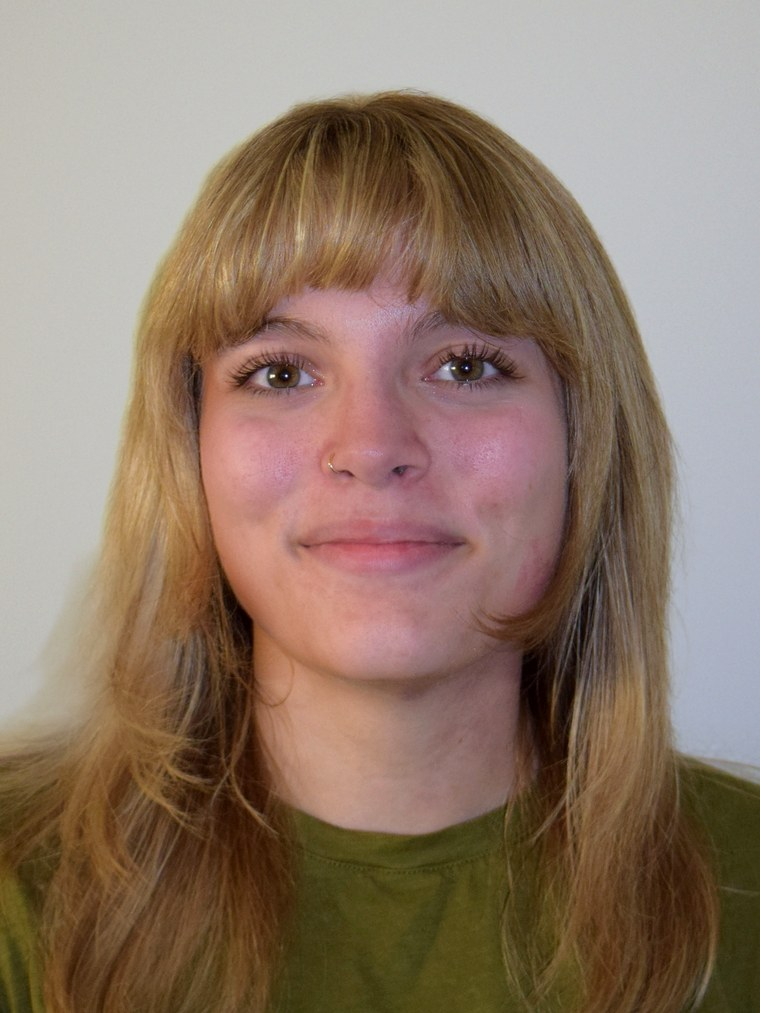
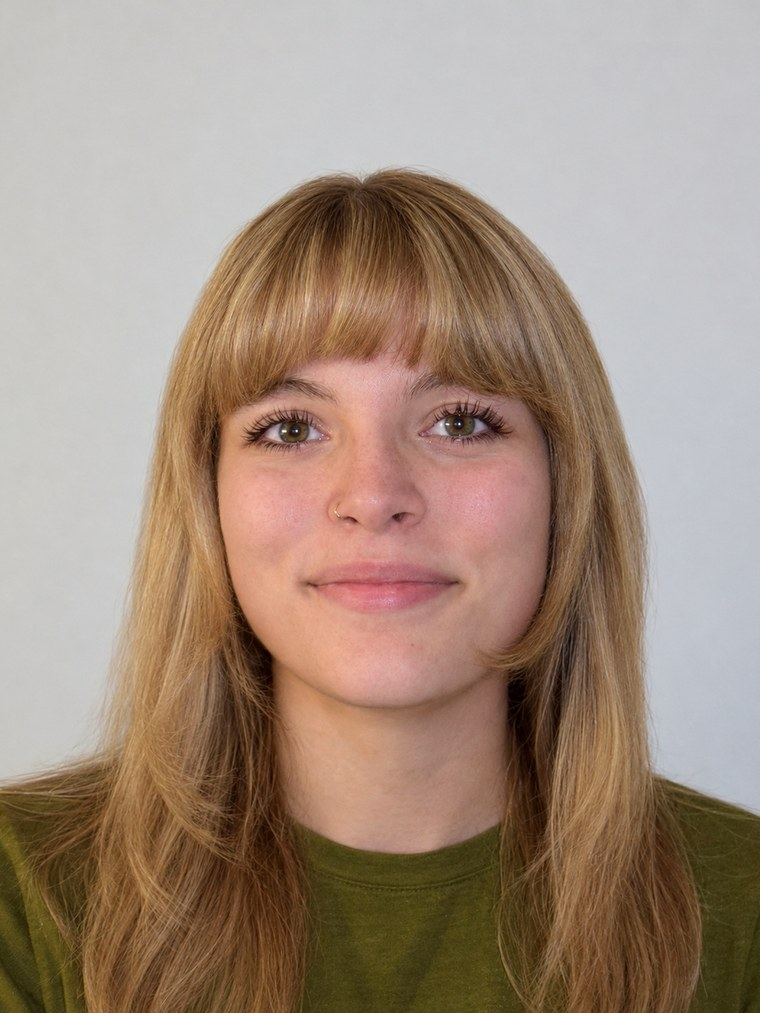
Fill out About carousel with 11 real photos, update headshot
- Replace the placeholder carousel images with 11 real photos, ordered
  with a narrative arc: solo shots up front, then creative/CS work
  (RepQuest, collage art), concerts and friends, family, and a dog
  photo as the closer
- Fix EXIF-orientation and crop issues found while processing (several
  source photos were rotated sideways, and a couple of crops didn't
  show the right content) before finalizing
- Swap in a new hero headshot

diff --git a/index.html b/index.html
@@ -22,7 +22,7 @@
 <link rel="preconnect" href="https://fonts.googleapis.com">
 <link rel="preconnect" href="https://fonts.gstatic.com" crossorigin>
 <link href="https://fonts.googleapis.com/css2?family=Newsreader:opsz,wght@6..72,300;6..72,400;6..72,500&family=Jost:wght@400;500&family=Work+Sans:wght@400;500&display=swap" rel="stylesheet">
-<link rel="stylesheet" href="style.css?v=92">
+<link rel="stylesheet" href="style.css?v=98">
 </head>
 <body>
 
@@ -214,10 +214,16 @@
       <div class="about-carousel">
         <div class="about-carousel-track">
           <figure class="about-carousel-slide"><img src="img/about/photo-1.jpg" alt="Alexandra laughing with her hand over her face"></figure>
-          <figure class="about-carousel-slide"><img src="img/about/photo-2.jpg" alt="Alexandra laughing with a friend during a photoshoot"></figure>
-          <figure class="about-carousel-slide"><img src="img/about/placeholder-3.jpg" alt="Placeholder photo 3"></figure>
-          <figure class="about-carousel-slide"><img src="img/about/placeholder-4.jpg" alt="Placeholder photo 4"></figure>
-          <figure class="about-carousel-slide"><img src="img/about/placeholder-5.jpg" alt="Placeholder photo 5"></figure>
+          <figure class="about-carousel-slide"><img src="img/about/photo-4.jpg" alt="Alexandra sitting with her camera overlooking a city skyline"></figure>
+          <figure class="about-carousel-slide"><img src="img/about/photo-5.jpg" alt="Looking down at a KAWS figure on display at a museum"></figure>
+          <figure class="about-carousel-slide"><img src="img/about/photo-2.jpg" alt="Alexandra working on the RepQuest achievements page with teammates"></figure>
+          <figure class="about-carousel-slide"><img src="img/about/photo-3.jpg" alt="A collage art piece in progress on a desk"></figure>
+          <figure class="about-carousel-slide"><img src="img/about/photo-6.jpg" alt="Alexandra hugging a friend at a concert"></figure>
+          <figure class="about-carousel-slide"><img src="img/about/photo-7.jpg" alt="Alexandra and a friend at an amphitheater concert at night"></figure>
+          <figure class="about-carousel-slide"><img src="img/about/photo-8.jpg" alt="Alexandra laughing with a friend during a photoshoot"></figure>
+          <figure class="about-carousel-slide"><img src="img/about/photo-9.jpg" alt="Alexandra and her mom at the beach at sunset"></figure>
+          <figure class="about-carousel-slide"><img src="img/about/photo-10.jpg" alt="Family photographed in a convex mirror outside on campus"></figure>
+          <figure class="about-carousel-slide"><img src="img/about/photo-11.jpg" alt="Alexandra with her dog"></figure>
         </div>
         <button type="button" class="carousel-btn carousel-prev" aria-label="Previous photo">←</button>
         <button type="button" class="carousel-btn carousel-next" aria-label="Next photo">→</button>
@@ -258,6 +264,6 @@
   <p>Alexandra Palermo © 2026</p>
 </footer>
 
-<script src="script.js?v=92"></script>
+<script src="script.js?v=98"></script>
 </body>
 </html>

diff --git a/potion-creation-station.html b/potion-creation-station.html
@@ -22,7 +22,7 @@
 <link rel="preconnect" href="https://fonts.googleapis.com">
 <link rel="preconnect" href="https://fonts.gstatic.com" crossorigin>
 <link href="https://fonts.googleapis.com/css2?family=Newsreader:opsz,wght@6..72,300;6..72,400;6..72,500&family=Jost:wght@400;500&family=Work+Sans:wght@400;500&display=swap" rel="stylesheet">
-<link rel="stylesheet" href="style.css?v=92">
+<link rel="stylesheet" href="style.css?v=98">
 </head>
 <body>
 
@@ -141,6 +141,6 @@ This Potion has been sent into the depths of the archive, never to be found agai
   <p>Alexandra Palermo © 2026</p>
 </footer>
 
-<script src="script.js?v=92"></script>
+<script src="script.js?v=98"></script>
 </body>
 </html>

diff --git a/pride-rock.html b/pride-rock.html
@@ -22,7 +22,7 @@
 <link rel="preconnect" href="https://fonts.googleapis.com">
 <link rel="preconnect" href="https://fonts.gstatic.com" crossorigin>
 <link href="https://fonts.googleapis.com/css2?family=Newsreader:opsz,wght@6..72,300;6..72,400;6..72,500&family=Jost:wght@400;500&family=Work+Sans:wght@400;500&display=swap" rel="stylesheet">
-<link rel="stylesheet" href="style.css?v=92">
+<link rel="stylesheet" href="style.css?v=98">
 </head>
 <body>
 
@@ -140,6 +140,6 @@ Guided by a friendly herd of elephants — Pride Points: 24300 → 25000!</pre>
   <p>Alexandra Palermo © 2026</p>
 </footer>
 
-<script src="script.js?v=92"></script>
+<script src="script.js?v=98"></script>
 </body>
 </html>

diff --git a/repquest.html b/repquest.html
@@ -22,7 +22,7 @@
 <link rel="preconnect" href="https://fonts.googleapis.com">
 <link rel="preconnect" href="https://fonts.gstatic.com" crossorigin>
 <link href="https://fonts.googleapis.com/css2?family=Newsreader:opsz,wght@6..72,300;6..72,400;6..72,500&family=Jost:wght@400;500&family=Work+Sans:wght@400;500&display=swap" rel="stylesheet">
-<link rel="stylesheet" href="style.css?v=92">
+<link rel="stylesheet" href="style.css?v=98">
 </head>
 <body>
 
@@ -233,6 +233,6 @@
   <p>Alexandra Palermo © 2026</p>
 </footer>
 
-<script src="script.js?v=92"></script>
+<script src="script.js?v=98"></script>
 </body>
 </html>

diff --git a/safesmart.html b/safesmart.html
@@ -22,7 +22,7 @@
 <link rel="preconnect" href="https://fonts.googleapis.com">
 <link rel="preconnect" href="https://fonts.gstatic.com" crossorigin>
 <link href="https://fonts.googleapis.com/css2?family=Newsreader:opsz,wght@6..72,300;6..72,400;6..72,500&family=Jost:wght@400;500&family=Work+Sans:wght@400;500&display=swap" rel="stylesheet">
-<link rel="stylesheet" href="style.css?v=92">
+<link rel="stylesheet" href="style.css?v=98">
 </head>
 <body>
 
@@ -250,6 +250,6 @@
   <p>Alexandra Palermo © 2026</p>
 </footer>
 
-<script src="script.js?v=92"></script>
+<script src="script.js?v=98"></script>
 </body>
 </html>
